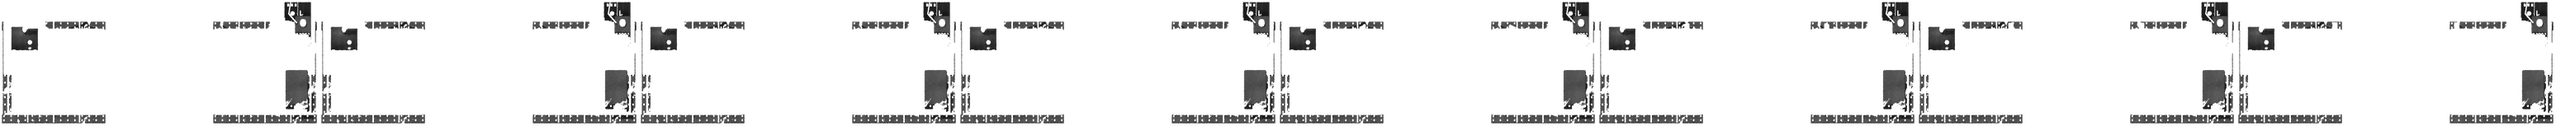
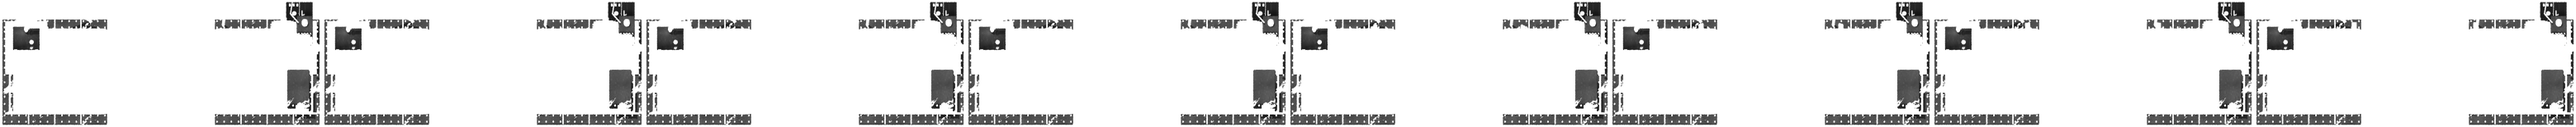
0.3.2: unloading pits join edge to edge
Pits in a row no longer show ground or gravel between them: the curbs and
cover plates reach the footprint edge, a concrete sill closes the pit under
the track, and the gravel apron stays beyond the far ends.

Tooling: build_sprites.py keeps sprite sets that were not re-rendered,
save_scenes.py writes .blend files to look at, BULK_GPU=CUDA for drivers
whose OptiX kernel fails, and absolute render output paths.

diff --git a/tools/blender/station_e1.py b/tools/blender/station_e1.py
@@ -79,9 +79,10 @@ def _math(nt, op, a, b=None):
 
 
 def apron(p):
-    """Gravel and trodden earth around the pit that fade into the ground with a ragged
-    edge, like the ballast of the rails, so the pit has no hard outline. Left out over
-    the track, where the game draws its own ballast."""
+    """Gravel and trodden earth at the far ends of the pit that fade into the ground with
+    a ragged edge, like the ballast of the rails. Only beyond the ends: along the track
+    the pit stops at its footprint, so pits in a row join without ground between them
+    and no gravel spills onto the neighbour."""
     def build(nt, coord):
         xyz = nt.nodes.new("ShaderNodeSeparateXYZ")
         nt.links.new(coord.outputs["Object"], xyz.inputs[0])
@@ -89,7 +90,7 @@ def apron(p):
         ay = _math(nt, "ABSOLUTE", xyz.outputs["Y"])
         # distance outside the 6 x 2 footprint, roughened by noise
         out_x = _math(nt, "MAXIMUM", _math(nt, "SUBTRACT", ax, 2.85), 0.0)
-        out_y = _math(nt, "MAXIMUM", _math(nt, "SUBTRACT", ay, 0.85), 0.0)
+        out_y = _math(nt, "MAXIMUM", _math(nt, "SUBTRACT", ay, 1.0), 0.0)
         dist = _math(nt, "SQRT", _math(nt, "ADD", _math(nt, "MULTIPLY", out_x, out_x), _math(nt, "MULTIPLY", out_y, out_y)))
         noise = nt.nodes.new("ShaderNodeTexNoise")
         noise.inputs["Scale"].default_value = 3.5
@@ -98,9 +99,9 @@ def apron(p):
         ragged = _math(nt, "ADD", dist, _math(nt, "MULTIPLY", _math(nt, "SUBTRACT", noise.outputs["Fac"], 0.5), 0.5))
         fade = _math(nt, "SUBTRACT", 1.0, _math(nt, "DIVIDE", ragged, 0.6))
         fade.node.use_clamp = True
-        # nothing over the track bed
-        off_track = _math(nt, "GREATER_THAN", ax, 1.05)
-        alpha = _math(nt, "MULTIPLY", fade, off_track)
+        # only beyond the end walls
+        beyond_ends = _math(nt, "GREATER_THAN", ax, 2.85)
+        alpha = _math(nt, "MULTIPLY", fade, beyond_ends)
         # grey gravel with darker earth between the stones
         stones = nt.nodes.new("ShaderNodeTexVoronoi")
         stones.inputs["Scale"].default_value = 26
@@ -113,13 +114,13 @@ def apron(p):
         return ramp.outputs["Color"], alpha
     mat = _alpha_material("apron", build)
     rig.mesh("apron", [(-3.6, -1.6, 0.005), (3.6, -1.6, 0.005), (3.6, 1.6, 0.005), (-3.6, 1.6, 0.005)], [(0, 1, 2, 3)], mat)
-    # a few loose stones spilled over the edge
+    # a few loose stones spilled over the ends
     import random
     rnd = random.Random(7)
-    for k in range(60):
+    for k in range(30):
         sx = rnd.choice((-1, 1))
-        x = sx * rnd.uniform(1.15, 3.25)
-        y = rnd.choice((-1, 1)) * rnd.uniform(0.75, 1.3) if abs(x) < 2.85 else rnd.uniform(-1.1, 1.1)
+        x = sx * rnd.uniform(3.02, 3.3)
+        y = rnd.uniform(-1.1, 1.1)
         s = rnd.uniform(0.03, 0.06)
         rig.box(f"stone{k}", (x, y, s * 0.3), (s, s * rnd.uniform(0.7, 1.2), s * 0.6), p["concrete"], bevel=0.01,
                 rotation=(0, 0, rnd.uniform(0, 3.14)))
@@ -152,17 +153,23 @@ def haze(p):
 
 
 def pit(p):
-    # concrete curbs, sunk flush with the ground, with riveted steel cover plates; the
-    # gravel apron overlaps their outer edge
+    # concrete curbs, sunk flush with the ground, with riveted steel cover plates. They
+    # reach the edge of the footprint, so pits in a row meet curb to curb
     for sx in (-1, 1):
-        x0, x1 = sx * 1.02, sx * 2.98
+        x0, x1 = sx * 1.02, sx * 3.0
         cx, w = (x0 + x1) / 2, abs(x1 - x0)
         for sy in (-1, 1):
-            rig.box(f"curb{sx}{sy}", (cx, sy * 0.9, -0.1), (w, 0.2, 0.2), p["concrete"], bevel=0.02)
-            kit.plate((cx, sy * 0.88, 0.012), (w, 0.16, 0.02), p["olive"], panels=4)
+            rig.box(f"curb{sx}{sy}", (cx, sy * 0.9, -0.1), (w, 0.2, 0.2), p["concrete"], bevel=0.01)
+            kit.plate((cx, sy * 0.9, 0.012), (w, 0.2, 0.02), p["olive"], panels=4)
             kit.hazard((cx, sy * 0.8, 0.02), (w - 0.1, 0.03, 0.03), stripes=int(w / 0.18))
-        rig.box(f"end_wall{sx}", (sx * 2.9, 0, -0.1), (0.2, 1.6, 0.2), p["concrete"], bevel=0.02)
-        kit.plate((sx * 2.88, 0, 0.012), (0.16, 1.6, 0.02), p["olive"])
+        rig.box(f"end_wall{sx}", (sx * 2.9, 0, -0.1), (0.2, 2.0, 0.2), p["concrete"], bevel=0.01)
+        kit.plate((sx * 2.9, 0, 0.012), (0.2, 1.6, 0.02), p["olive"])
+    # concrete sills under the track at both ends close the pit to the footprint edge:
+    # pits in a row show sill against sill, the plain track meets a light sill instead
+    # of the open pit
+    for sy in (-1, 1):
+        rig.box(f"sill{sy}", (0, sy * 0.9, -0.1), (2.06, 0.2, 0.2), p["concrete"], bevel=0.01)
+        kit.ibeam((-1.02, sy * 0.8, -0.03), (1.02, sy * 0.8, -0.03), size=0.06)
     # funnel walls: riveted steel sloping down to the belt trough
     rig.mesh("funnel", [
         (-2.8, -0.8, 0), (2.8, -0.8, 0), (2.8, 0.8, 0), (-2.8, 0.8, 0),

diff --git a/tools/blender/build_sprites.py b/tools/blender/build_sprites.py
@@ -5,6 +5,7 @@ Expects the layout written by render_all.sh: <render_dir>/{w1,b3,b1,e1}/...
 """
 import math
 import os
+import re
 import sys
 
 sys.path.insert(0, os.path.dirname(__file__))
@@ -150,9 +151,18 @@ def main(render_dir):
                 entry[kind] = write_sheet(frames(src, kind, count, G), o, f"{key}-{v}-{kind}", 8)
             meta[f"{key}-{v}"] = entry
 
-    with open(os.path.join(OUT, "sprites.lua"), "w") as f:
-        f.write("-- Generated by tools/blender/build_sprites.py, do not edit.\nreturn " + lua(meta) + "\n")
-    print("wrote", len(meta), "sprite sets")
+    # sets missing from render_dir keep their entries, so one part can be re-rendered alone
+    blocks = {k: f"  [\"{k}\"] = {lua(v, '  ')}" for k, v in meta.items()}
+    path = os.path.join(OUT, "sprites.lua")
+    old = {}
+    if os.path.exists(path):
+        with open(path) as f:
+            for m in re.finditer(r'^  \["([^"]+)"\] = \{\n.*?^  \}', f.read(), re.M | re.S):
+                old[m.group(1)] = m.group(0)
+    merged = {**old, **blocks}
+    with open(path, "w") as f:
+        f.write("-- Generated by tools/blender/build_sprites.py, do not edit.\nreturn {\n" + ",\n".join(merged.values()) + "\n}\n")
+    print("wrote", len(meta), "sprite sets, kept", len(merged) - len(meta))
 
 
 
@@ -173,10 +183,13 @@ def icons(render_dir, out_dir):
         return canvas
 
     w = os.path.join(render_dir, "w1")
-    wagon = pack.tinted(pack.load(w, "color", 40), pack.load(w, "mask", 40), WAGON_COLOR)
-    fit(wagon, 64).save(os.path.join(out_dir, "bulk-wagon.png"))
+    if os.path.isdir(w):
+        wagon = pack.tinted(pack.load(w, "color", 40), pack.load(w, "mask", 40), WAGON_COLOR)
+        fit(wagon, 64).save(os.path.join(out_dir, "bulk-wagon.png"))
     for key, name in (("e1", "unloading-pit"), ("b3", "belt-loader"), ("b1", "loading-station")):
         src = os.path.join(render_dir, key, "v1")
+        if not os.path.isdir(src):
+            continue
         layers = [pack.tinted(pack.load(src, kind, 0, G), pack.load(src, kind + "_mask", 0, G), STATION_COLOR)
                   for kind in ("base", "idle") if os.path.exists(os.path.join(src, f"{kind}_000.png"))]
         img = layers[0].copy()

diff --git a/tools/blender/rig.py b/tools/blender/rig.py
@@ -34,10 +34,12 @@ def reset():
     scene = bpy.context.scene
     scene.render.engine = "CYCLES"
     scene.cycles.device = "CPU"
-    # use an NVIDIA card when there is one; much faster than the CPU
+    # use an NVIDIA card when there is one; much faster than the CPU. BULK_GPU=CUDA picks
+    # CUDA where OptiX fails to load its kernel (older drivers)
     try:
         prefs = bpy.context.preferences.addons["cycles"].preferences
-        for backend in ("OPTIX", "CUDA"):
+        backends = [os.environ["BULK_GPU"]] if os.environ.get("BULK_GPU") else ("OPTIX", "CUDA")
+        for backend in backends:
             prefs.compute_device_type = backend
             prefs.get_devices()
             gpus = [d for d in prefs.devices if d.type == backend]
@@ -577,6 +579,7 @@ def render_frames(out_dir, frames, orientation_of, passes=("color", "mask", "sha
 
     pose(i), if given, is called before rendering frame i to set up animated parts.
     """
+    out_dir = os.path.abspath(out_dir)  # Blender does not resolve relative output paths against the working dir
     os.makedirs(out_dir, exist_ok=True)
     scene = bpy.context.scene
     # build_sprites.py needs the framing to place the entity origin

diff --git a/tools/blender/save_scenes.py b/tools/blender/save_scenes.py
@@ -1,0 +1,25 @@
+"""Saves the scene a render script builds as a .blend file, to look at it in Blender.
+The scripts stay the source: edits made in a saved file do not reach the sprites.
+
+Run:  blender -b --factory-startup -P tools/blender/save_scenes.py -- <e1|b1|b3|wagon> [out_dir]
+Default out_dir: tools/blender/scenes. One part per run, the scripts keep module state.
+"""
+import importlib
+import os
+import sys
+
+sys.path.insert(0, os.path.dirname(__file__))
+import bpy  # noqa: E402
+import rig  # noqa: E402
+
+MODULES = {"e1": "station_e1", "b1": "station_b1", "b3": "station_b3", "wagon": "wagon_w1"}
+
+if __name__ == "__main__":
+    a = rig.args()
+    name = MODULES[a[0]]
+    out = os.path.abspath(a[1] if len(a) > 1 else os.path.join(os.path.dirname(__file__), "scenes"))
+    os.makedirs(out, exist_ok=True)
+    importlib.import_module(name).build()
+    path = os.path.join(out, name + ".blend")
+    bpy.ops.wm.save_as_mainfile(filepath=path)
+    print("saved", path)

diff --git a/README.md b/README.md
@@ -28,6 +28,12 @@ Other mods can register bulk goods with `remote.call("bulk-wagons", "add_allowed
 
 Graphics are rendered with Blender from the scripts in `tools/blender` (`render_all.sh`, then `build_sprites.py`). Colour masks follow the vanilla rules (FFF #218): parts that take the colour are rendered in neutral grey (materials with `paint=True`, or objects with `mask`), their `*_mask` pass only marks where the colour goes, and `pack.py` fills the mask with half the brightness of the grey paint. The game applies the colour at alpha 0.5. `python tools/package.py` builds the portal zip.
 
+`render_all.sh <out_dir> e1` renders a single part; `build_sprites.py` then only replaces the sprite sets found in
+`<out_dir>` and keeps the others. To look at a model in Blender, `blender -b --factory-startup -P
+tools/blender/save_scenes.py -- e1` (or `b1`, `b3`, `wagon`) saves the scene to `tools/blender/scenes/*.blend`; the
+scripts stay the source, edits in the .blend file do not reach the sprites. Set `BULK_GPU=CUDA` when Cycles cannot
+load its OptiX kernel.
+
 
 `python tests/run.py` starts Factorio headless in an isolated environment, builds a test scene with the harness mod in `tests/bulk-wagons-test` and prints the `BULKTEST` results.
 
